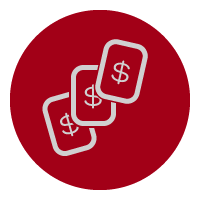
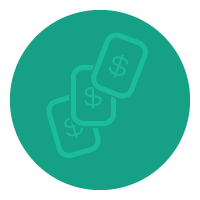
Super pimpeada (estilos finales)
Estilos finales

diff --git a/toolbox/precioporhora.html b/toolbox/precioporhora.html
@@ -59,6 +59,19 @@
 
 
 
+<div id="fb-root"></div>
+<script>(function(d, s, id) {
+  var js, fjs = d.getElementsByTagName(s)[0];
+  if (d.getElementById(id)) return;
+  js = d.createElement(s); js.id = id;
+  js.src = "//connect.facebook.net/es_LA/all.js#xfbml=1&appId=480895755268725";
+  fjs.parentNode.insertBefore(js, fjs);
+}(document, 'script', 'facebook-jssdk'));</script>
+
+
+
+<img src="../images/cosmonauta-fondo.png" class="fondocosmonauta" />
+
 <div class="container" ng-controller="calcCtrl">
 
 	<div class="row firstrow">
@@ -78,23 +91,23 @@
         	<input type="number" value="" placeholder="Sueldo" class="inputcantidades" ng-model="salario_mensual_promedio" min="0">
         </div>
         <div class="twocol">
-        	<img src="../images/icosueldo.png" />
+        	<img src="../images/icovacaciones.png" />
         	<p>¿Cuántos días libres quieres tener?</p>
         	<input type="number" value="" placeholder="Vacaciones" class="inputcantidades" ng-model="vacaciones" min="0">
             <input type="number" value="" placeholder="Días festivos" class="inputcantidades" ng-model="feriados" min="0">
         </div>
         <div class="twocol">
-            <img src="../images/icosueldo.png" />
+            <img src="../images/icoincapacidad.png" />
             <p>A veces nos enfermamos, ¿cuántos días por enfermedad prevés tomar?</p>
             <input type="number" value="" placeholder="Días Incapacidad" class="inputcantidades" ng-model="incapacidad" min="0">
         </div>
         <div class="twocol">
-        	<img src="../images/icosueldo.png" />
+        	<img src="../images/icoadministracion.png" />
         	<p>¿Qué porcentaje de tu tiempo utilizas en juntas, cotizaciones, etc.?</p>
         	<input type="number" value="" placeholder="Administración" class="inputcantidades" ng-model="tiempo_admin" min="0">
         </div>
         <div class="twocol">
-        	<img src="../images/icosueldo.png" />
+        	<img src="../images/icoservicios.png" />
         	<p>¿Cuáles son tus gastos fijos?</p>
         	<input type="number" value="" placeholder="Renta" class="inputcantidades" ng-model="renta_mensual" min="0">
             <input type="number" value="" placeholder="Servicios" class="inputcantidades" ng-model="servicios_mensuales" min="0">
@@ -103,16 +116,14 @@
             <p><strong>Total:</strong>{{fijos_mensuales()}}</p>
         </div>
         <div class="twocol last">
-        	<img src="../images/icosueldo.png" />
+        	<img src="../images/icoganancia.png" />
         	<p>Tu trabajo es muy valioso, ¿qué porcentaje mereces de ganancia?</p>
         	<input type="number" value="" placeholder="Ganancia" class="inputcantidades" ng-model="porcentaje_utilidad" min="0">
         </div>
     </div>
     
     <div class="row preciorow">
-		<div class="twocol">
-        </div>
-        <div class="sixcol">
+        <div class="fourcol">
 	        <p class="fraseprecio">Tu hora de trabajo vale:</p>
         	<p class="preciohora">{{hora_diseno()|currency}}</p>
         </div>
@@ -120,9 +131,38 @@
         	<p class="frasepreciomensual">Necesitas vender <span class="preciomensual">{{venta_mensual() | currency}}</span> para ser rentable</p>
             <p>Ve todo el procedimiento <a href="">aquí</a></p>
         </div>
+        <div class="fourcol last">
+        	<a href="https://twitter.com/share" class="twitter-share-button" data-text="¿Sabes cuánto cobrar? Descúbrelo #HoraJusta" data-via="CosmonautaMX" data-lang="es" data-related="CosmonautaMX" data-hashtags="Cosmonauta">Twittear</a>
+<script>!function(d,s,id){var js,fjs=d.getElementsByTagName(s)[0];if(!d.getElementById(id)){js=d.createElement(s);js.id=id;js.src="//platform.twitter.com/widgets.js";fjs.parentNode.insertBefore(js,fjs);}}(document,"script","twitter-wjs");</script>
+
+			<div style="clear:both; height:20px;"></div>
+
+			<div class="fb-like" data-href="http://cosmonauta.mx/toolbox/precioporhora.html" data-send="true" data-width="300" data-show-faces="true" data-action="recommend"></div>
+            
+            
+            <div style="clear:both; height:20px;"></div>
+            
+            
+            <!-- Place this tag where you want the +1 button to render. -->
+<div class="g-plusone" data-annotation="inline" data-width="300"></div>
+
+<!-- Place this tag after the last +1 button tag. -->
+<script type="text/javascript">
+  window.___gcfg = {lang: 'es-419'};
+
+  (function() {
+    var po = document.createElement('script'); po.type = 'text/javascript'; po.async = true;
+    po.src = 'https://apis.google.com/js/plusone.js';
+    var s = document.getElementsByTagName('script')[0]; s.parentNode.insertBefore(po, s);
+  })();
+</script>
+            
+
+        </div>
     </div>
 
     <div class="row explicacionrow"> 
+    	<div class="onecol"></div>
         <div class="tencol">
             <p>Para calcular el precio por hora para un salario de: {{salario_mensual_promedio | currency}} hacemos lo siguiente:</p>
             <ol>
@@ -189,7 +229,7 @@
     	<div class="twocol">
         </div>
 		<div class="eightcol">
-            <p>Desarrollado por <a href="#">Cosmonauta.MX</a>, basado en los calculos de estas <a href="#">dos señoras</a></p>
+            <p>Desarrollado por <a href="http://cosmonauta.mx#contacto-nav">Cosmonauta.MX</a>, basado en los cálculos de <a href="http://es.scribd.com/doc/7739733/Calculo-de-Costo-Por-Hora-de-Trabajo-de-Diseno" target="_blank">Silvia Oropeza y Josefina Reséndiz</a></p>
           </div>
     </div>
 </div>

diff --git a/css/styles.css b/css/styles.css
@@ -4,6 +4,7 @@
 
 	body {
 		text-align:center;
+		background: #eaeaea url(../images/bgtextura.jpg) repeat fixed;
 	}
 	
 	.inputcantidades{
@@ -53,7 +54,22 @@
 	
 	body footer{ margin-top:30px;
 	padding:10px 0;}
-
+	
+	.explicacionrow{
+		text-align:left;
+		margin-top:50px;
+		}
+		
+	.explicacionrow li{
+		margin:40px 0;
+		}
+	.fondocosmonauta{
+		position:absolute;
+		bottom:10px;
+		left:10px;
+		z-index:-1;
+	}
+	
 /* ============================= */
 /* ! Layout for mobile version   */
 /* ============================= */
